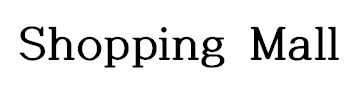
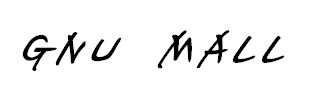
헤더변경

Changed region(s): [[0.0284, 0.2474, 0.9369, 0.7113], [0.4259, 0.2784, 0.4826, 0.3402]]

diff --git a/front/templates/base.html b/front/templates/base.html
@@ -63,7 +63,7 @@
                     </form>
                 </div>
 
-                <h4>category</h4>
+                <h4>CATEGORY</h4>
                 <ul>
                     <li><a href="{% url 'outer' %}" target="_self">OUTER</a></li>
                     <li><a href="{% url 'top' %}" target="_self">TOP</a></li>

diff --git a/front/static/front/index.css b/front/static/front/index.css
@@ -15,7 +15,7 @@
 *
 */
 .header {
-    height: 150px;
+    height: 120px;
     display: flex;
 }
 
@@ -87,7 +87,7 @@ aside#category {
 }
 
 aside#category h4{
-    font-size: 40px;
+    font-size: 25px;
     margin-top: 0;
     margin-bottom:1em;
 
